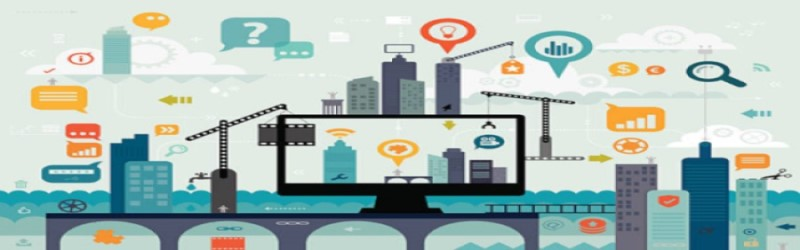
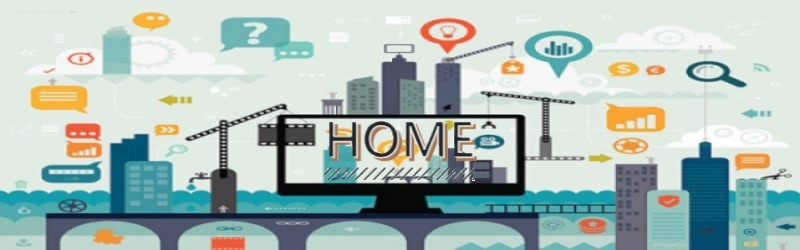
202311121235

Changed region(s): [[0.4062, 0.476, 0.5938, 0.644], [0.4062, 0.672, 0.5938, 0.728]]

diff --git a/index.html b/index.html
@@ -72,46 +72,46 @@
       <div class="carousel-item active" data-bs-interval="10000">
         <a href="index.html"> <!-- リンク先のページのURLを指定 -->
         <img src="home.jpg" class="d-block w-100" alt="home">
-        <div class="carousel-caption d-none d-md-block">
+        <!--<div class="carousel-caption d-none d-md-block">
           <h5>home</h5>
           <p>team5のホームページ</p>
-        </div>
+        </div>-->
         </a>
       </div>
       <div class="carousel-item" data-bs-interval="2000">
         <a href="index_travel.html">
         <img src="travel.png" class="d-block w-100" alt="travel">
-        <div class="carousel-caption d-none d-md-block">
+        <!--<div class="carousel-caption d-none d-md-block">
           <h5>travel</h5>
           <p>team5メンバーの行きたいところ</p>
-        </div>
+        </div>-->
         </a>
       </div>
       <div class="carousel-item">
         <a href="index_interest.html">
         <img src="intarest.png" class="d-block w-100" alt="intarest">
-        <div class="carousel-caption d-none d-md-block">
+        <!--<div class="carousel-caption d-none d-md-block">
           <h5>intarest</h5>
           <p>team5メンバーの今熱中しているもの</p>
-        </div>
+        </div>-->
         </a>    
       </div>
     　<div class="carousel-item" data-bs-interval="2000">
         <a href="index_favorite.html">
     　　<img src="favorite.png" class="d-block w-100" alt="favorite">
-    　　<div class="carousel-caption d-none d-md-block">
+    　　<!--<div class="carousel-caption d-none d-md-block">
         　<h5>favorite</h5>
         　<p>team5メンバーのオススメしたいところ</p>
-    　　</div>
+    　　</div>-->
         </a>
     　</div>
     　<div class="carousel-item" data-bs-interval="2000">
         <a href="index_tech.html">
     　　<img src="tech.png" class="d-block w-100" alt="tech">
-    　　<div class="carousel-caption d-none d-md-block">
+    　　<!--<div class="carousel-caption d-none d-md-block">
         　<h5>Future</h5>
         　<p>team5メンバーのテックキャリの先</p>
-    　　</div>
+    　　</div>-->
         </a>
     　</div>
     </div>
